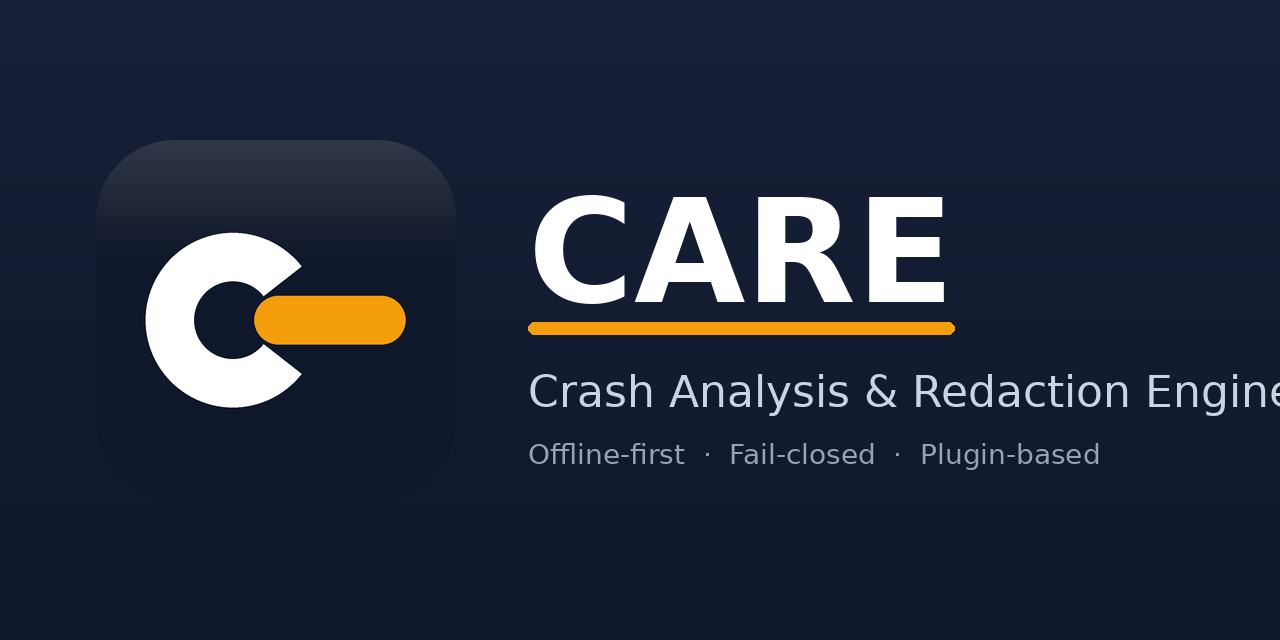
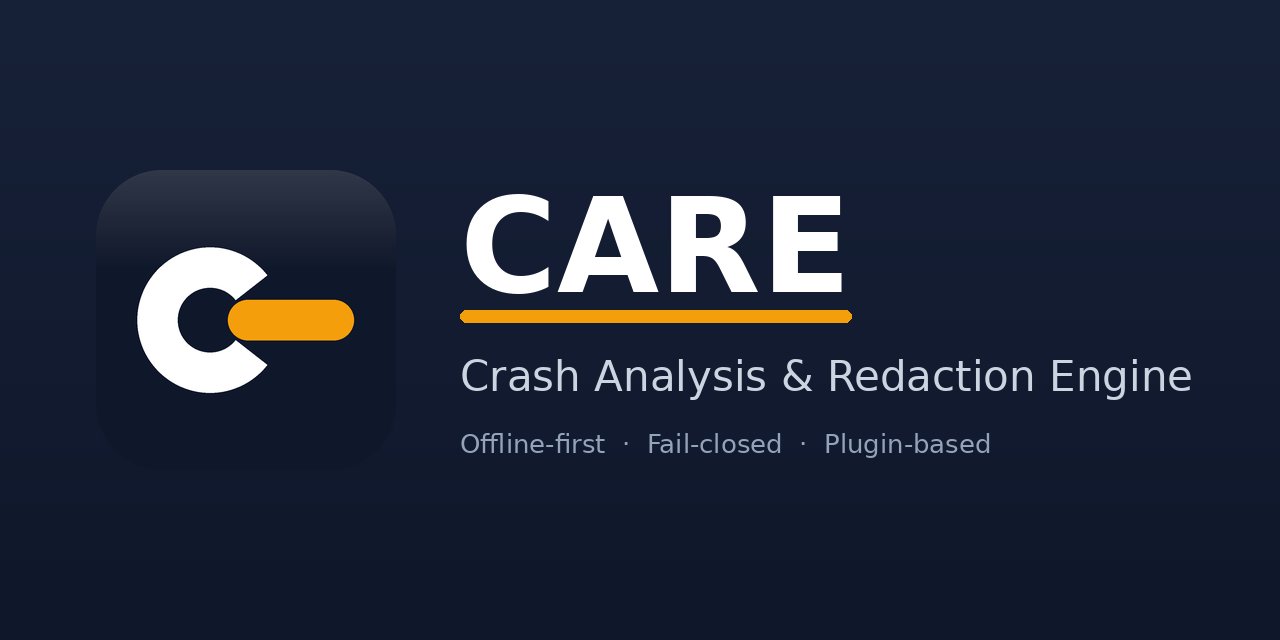
fix(social): subtitle was clipping the right edge; rebalance layout
Old card hard-coded subtitle at 44pt against ~700px of available
gutter; "Crash Analysis & Redaction Engine" rendered at ~830px and
"Engine" got sliced.

Changes:
- Auto-pick the largest subtitle size that fits the right gutter
  (44 → 42 → 40 → 38 → 36 → 34pt fallback chain).
- Measure the full text block first, then position it so it's
  vertically centred against the canvas instead of starting at a
  fixed Y. Stops the bottom-heavy dead space.
- Icon down from 360 to 300 to give the wordmark more horizontal
  room. Icon is otherwise unchanged so banner.png / icon.* stay in
  sync visually.

diff --git a/scripts/generate_icon.py b/scripts/generate_icon.py
@@ -230,50 +230,77 @@ def build_banner(icon_master: Image.Image) -> Image.Image:
 def build_social_card(icon_master: Image.Image) -> Image.Image:
     """1280×640 GitHub social-preview card.
 
-    GitHub recommends 1280×640 for OG images. Layout mirrors the
-    README banner — same colours, same underline — but with the icon
-    larger and the wordmark vertically centred so it reads cleanly in
-    Twitter / LinkedIn / Slack link previews.
+    Sized for the og:image consumed by Twitter / LinkedIn / Slack
+    link previews. Layout: icon left, wordmark + amber underline +
+    subtitle + footer line stacked vertically and centred as a single
+    block. Font sizes are tuned so the longest line (the subtitle)
+    fits inside the right gutter without clipping.
     """
     W, H = 1280, 640
     bg = _vertical_gradient((W, H), NAVY_TOP, NAVY)
 
-    icon_size = 360
+    icon_size = 300
     icon = icon_master.resize((icon_size, icon_size), Image.LANCZOS)
     icon_x = 96
     icon_y = (H - icon_size) // 2
     bg.alpha_composite(icon, (icon_x, icon_y))
 
     draw = ImageDraw.Draw(bg)
-    text_x = icon_x + icon_size + 72
+    text_x = icon_x + icon_size + 64
+    right_margin = 64
+    available_w = W - text_x - right_margin
 
-    title_font = ImageFont.truetype(FONT_BOLD, 144)
-    sub_font = ImageFont.truetype(FONT_REG, 44)
-    foot_font = ImageFont.truetype(FONT_REG, 28)
+    title_font = ImageFont.truetype(FONT_BOLD, 132)
+    foot_font = ImageFont.truetype(FONT_REG, 26)
 
-    title_y = 168
+    # Pick the largest subtitle size that still fits in `available_w`.
+    # 33-char string is right at the edge of the gutter at 44pt; step
+    # down until textbbox reports a width that fits.
+    subtitle = "Crash Analysis & Redaction Engine"
+    sub_font: ImageFont.FreeTypeFont = ImageFont.truetype(FONT_REG, 38)
+    for size in (42, 40, 38, 36, 34):
+        candidate = ImageFont.truetype(FONT_REG, size)
+        bbox = draw.textbbox((0, 0), subtitle, font=candidate)
+        if bbox[2] - bbox[0] <= available_w:
+            sub_font = candidate
+            break
+
+    # Measure the full text block first, then position it so the block
+    # is vertically centred within the canvas — keeps the icon and the
+    # wordmark visually balanced.
+    title_bbox = draw.textbbox((0, 0), "CARE", font=title_font)
+    title_h = title_bbox[3] - title_bbox[1]
+    underline_gap = 16
+    underline_h = 12
+    sub_gap = 30
+    sub_bbox = draw.textbbox((0, 0), subtitle, font=sub_font)
+    sub_h = sub_bbox[3] - sub_bbox[1]
+    foot_gap = 28
+    foot_bbox = draw.textbbox(
+        (0, 0),
+        "Offline-first  ·  Fail-closed  ·  Plugin-based",
+        font=foot_font,
+    )
+    foot_h = foot_bbox[3] - foot_bbox[1]
+
+    block_h = title_h + underline_gap + underline_h + sub_gap + sub_h + foot_gap + foot_h
+    title_y = (H - block_h) // 2 - title_bbox[1]
+
     draw.text((text_x, title_y), "CARE", font=title_font, fill=WHITE)
-
-    title_bbox = draw.textbbox((text_x, title_y), "CARE", font=title_font)
-    bar_top = title_bbox[3] + 18
-    bar_bottom = bar_top + 12
-    bar_left = title_bbox[0]
-    bar_right = title_bbox[2]
+    rendered_title_bbox = draw.textbbox((text_x, title_y), "CARE", font=title_font)
+    bar_top = rendered_title_bbox[3] + underline_gap
+    bar_bottom = bar_top + underline_h
     draw.rounded_rectangle(
-        (bar_left, bar_top, bar_right, bar_bottom),
+        (rendered_title_bbox[0], bar_top, rendered_title_bbox[2], bar_bottom),
         radius=6,
         fill=AMBER,
     )
 
-    sub_y = bar_bottom + 32
-    draw.text(
-        (text_x, sub_y),
-        "Crash Analysis & Redaction Engine",
-        font=sub_font,
-        fill=SLATE_300,
-    )
+    sub_y = bar_bottom + sub_gap
+    draw.text((text_x, sub_y), subtitle, font=sub_font, fill=SLATE_300)
+    rendered_sub_bbox = draw.textbbox((text_x, sub_y), subtitle, font=sub_font)
 
-    foot_y = sub_y + 72
+    foot_y = rendered_sub_bbox[3] + foot_gap
     draw.text(
         (text_x, foot_y),
         "Offline-first  ·  Fail-closed  ·  Plugin-based",